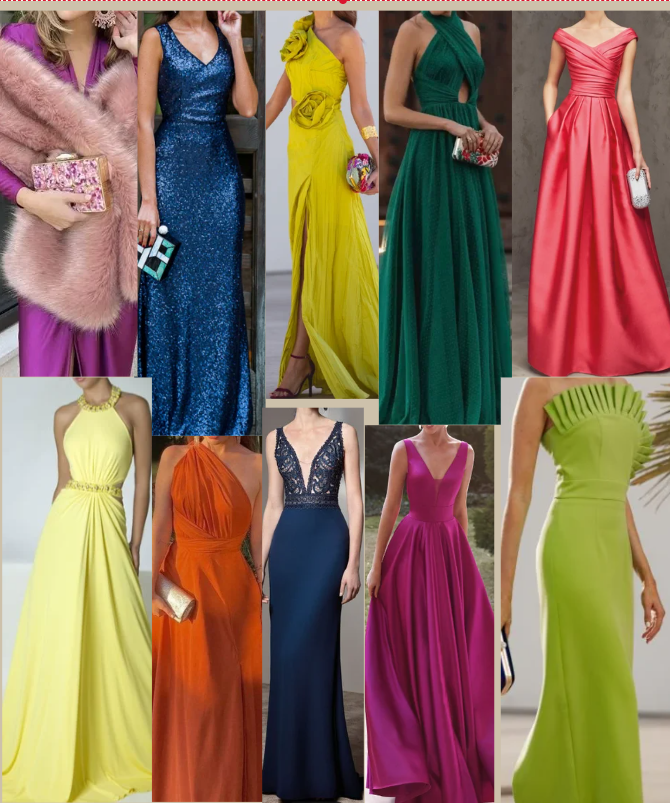
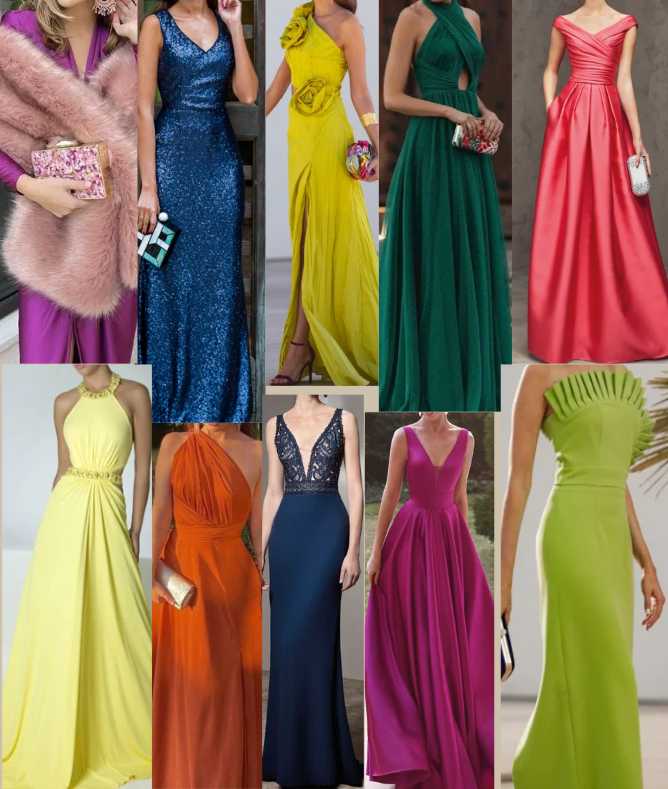
6

diff --git a/css/style.css b/css/style.css
@@ -409,7 +409,7 @@ margin-bottom:45px;
 
 .foto-finca{
 
-width:70%;
+width:60%;
 
 max-width:550px;
 
@@ -417,7 +417,7 @@ margin:0 auto 40px;
 
 border-radius:18px;
 
-box-shadow:0 20px 45px rgba(0,0,0,.30);
+box-shadow:0 15px 35px rgba(0,0,0,.30);
 
 }
 

diff --git a/index.html b/index.html
@@ -104,8 +104,7 @@ Nos llenará de alegría compartir este momento tan especial junto a ustedes.
 
 <p>
 
-Calle al Volcán km 18,
-Caserío La Virgen,
+Calle al Volcán km 18, Caserío La Virgen,
 Finca Anceluz, El Boquerón,El Salvador.
 
 </p>